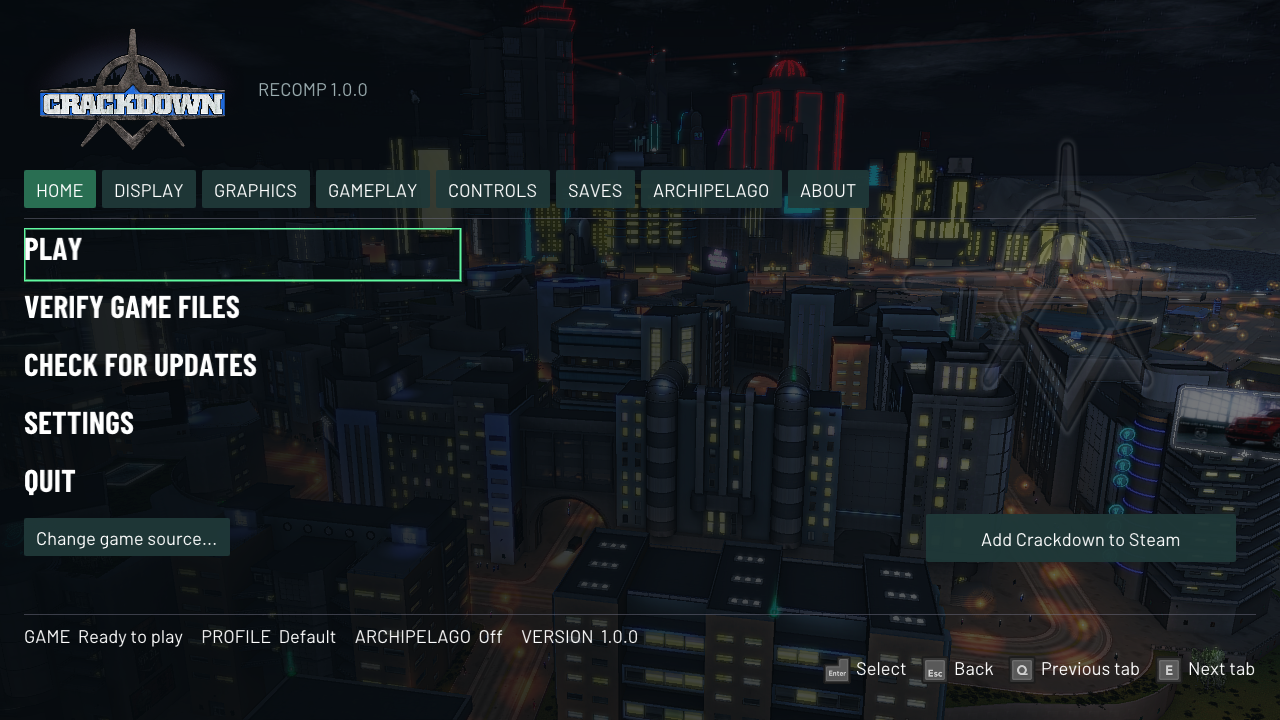
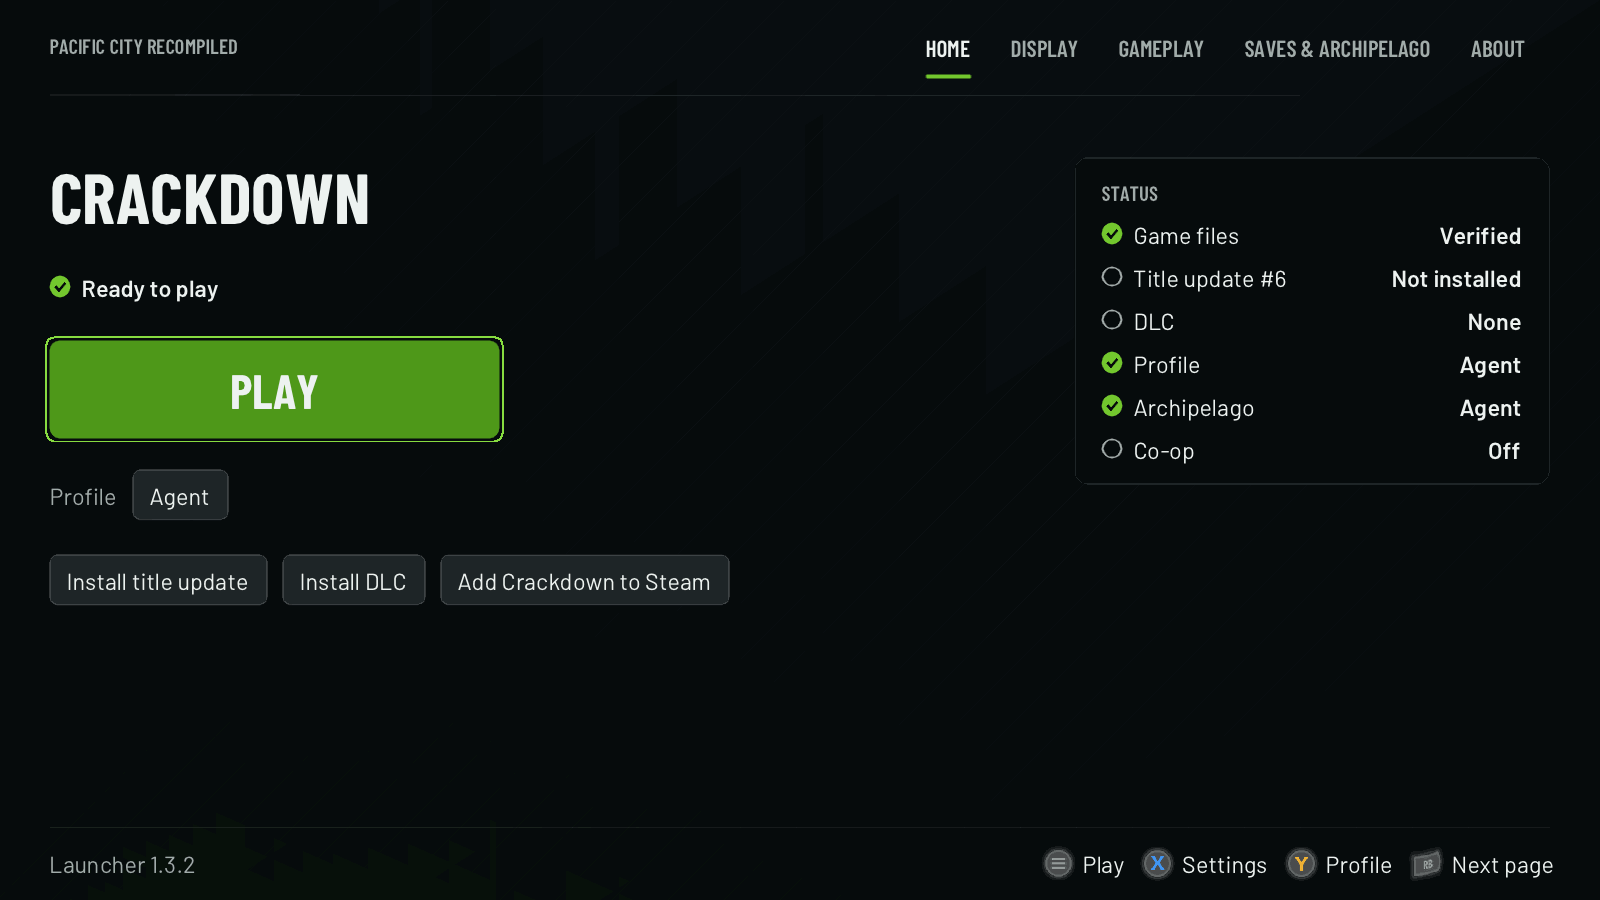
README: rewrite around the controller-friendly launcher (1.3.2)
Install via Quiver or the release ZIPs, first run, controller shortcuts,
settings pages, Archipelago (archipelago.gg port or custom address) and
troubleshooting. Absolute image/link URLs so Quiver's README view renders
them. New launcher screenshots rendered offscreen from launcher 1.3.2.

Claude-Session: https://claude.ai/code/session_01EfPM4SCpr4R1jnUmvdL5Yy

diff --git a/README.md b/README.md
@@ -4,62 +4,127 @@
 
 **Crackdown (Xbox 360, 2007), recompiled to run natively on Windows PC.**
 
-60 fps · up to 4K · ultrawide · mouse and keyboard · co-op · Archipelago randomizer
+60 fps · up to 4K · ultrawide · controller-friendly launcher · mouse and keyboard · co-op · Archipelago
 
-[![Latest release](https://img.shields.io/github/v/release/pacific-city-recompiled/crackdown-recomp?label=release&color=2ea44f)](https://github.com/pacific-city-recompiled/crackdown-recomp/releases)
-[![License](https://img.shields.io/badge/license-BSD--3--Clause-lightgrey)](LICENSE)
-[![Platform](https://img.shields.io/badge/platform-Windows%2010%20%7C%2011-0078d4)](SETUP.md#what-you-need)
+[![Latest release](https://img.shields.io/github/v/release/pacific-city-recompiled/crackdown-recomp?label=release&color=2ea44f)](https://github.com/pacific-city-recompiled/crackdown-recomp/releases/latest)
+[![License](https://img.shields.io/badge/license-BSD--3--Clause-lightgrey)](https://github.com/pacific-city-recompiled/crackdown-recomp/blob/main/LICENSE)
+[![Platform](https://img.shields.io/badge/platform-Windows%2010%20%7C%2011-0078d4)](https://github.com/pacific-city-recompiled/crackdown-recomp/blob/main/SETUP.md#what-you-need)
 
-**[Download 1.3.1](https://github.com/pacific-city-recompiled/crackdown-recomp/releases)** ·
-**[Setup guide](SETUP.md)** ·
-**[Report a problem](SETUP.md#reporting-a-problem)**
+**[Download 1.3.2](https://github.com/pacific-city-recompiled/crackdown-recomp/releases/latest)** ·
+**[Setup guide](https://github.com/pacific-city-recompiled/crackdown-recomp/blob/main/SETUP.md)** ·
+**[Report a problem](https://github.com/pacific-city-recompiled/crackdown-recomp/issues)** ·
+**[Crackdown 2](https://github.com/pacific-city-recompiled/crackdown-2-recomp)**
 
-<br>
-
-<img src="docs/images/hero.jpg" alt="An agent drops from the rooftops toward the Pacific City skyline" width="100%">
+<img src="https://raw.githubusercontent.com/pacific-city-recompiled/crackdown-recomp/main/docs/images/hero.jpg" alt="An agent drops from the rooftops toward the Pacific City skyline" width="100%">
 
 </div>
 
+Crackdown Recomp is an unofficial native PC port of Crackdown. It is not an emulator: the game's
+Xbox 360 code is translated ahead of time (static recompilation) into a Windows program, then fixed
+and extended for modern PCs. A launcher installs the game from **your own** disc, checks every file,
+keeps your settings and saves, and works fully with a controller.
+
 > [!IMPORTANT]
-> **Crackdown 2 is in the launcher (beta).** Since 1.1 one install plays both games: pick
-> CRACKDOWN 2 in the header, download its runtime from
-> [crackdown-2-recomp](https://github.com/pacific-city-recompiled/crackdown-2-recomp), then install your disc, its
-> title update and any DLC. See [SETUP.md](SETUP.md#crackdown-2).
+> No game files are included. You need your own dump of the **Crackdown World multi-language disc**
+> (ISO, XISO or an extracted folder).
 
-## About
+## Install
 
-Crackdown Recomp is an unofficial native PC port of Crackdown. It is not an emulator: the
-game's original Xbox 360 code is translated ahead of time (static recompilation) into a
-native Windows program, then fixed and extended for modern PCs. A launcher installs the game
-from **your own** disc dump, checks every file, keeps your settings and updates itself.
+### With Quiver Launcher
 
-The repository contains no game data. You need your own copy of Crackdown.
+Find **Crackdown** in [Quiver](https://quiverlauncher.com), press **Get**, then **Play**. Quiver
+downloads and updates the game; it opens the Crackdown launcher, which installs your disc on first run.
 
-## Features in 1.0
+### From the release ZIP
 
-| | |
+| Download | Use it if |
 |---|---|
-| **60 fps by default** | Smooth gameplay with the game's physics, driving, stairs and audio fixed to match the original 30 fps timing. 30 fps is one click away. |
-| **Fast** | The renderer's work is split across threads and repeated per-draw work is skipped. On an RTX 5080 at 1080p uncapped, the spawn point went from about 65 to 110 fps and camera pans from about 80 to 130+. |
-| **Graphics options** | Internal resolution up to 4K, FXAA and texture filtering, in the launcher's GRAPHICS tab or the new **PC Settings** page in the game's own menus. |
-| **Ultrawide** | Aspect ratios 16:9, 16:10, 21:9, 32:9 and 4:3. Wider ratios show more of Pacific City instead of stretching the picture. |
-| **Mouse and keyboard** | Full mouse look and rebindable keys, plus any Xbox-style controller. A camera turn speed slider (0.25x to 4x) works for both. |
-| **Co-op** | Two-player campaign over System Link between two PCs, set up from the launcher (Host or Join). |
-| **Archipelago randomizer** | Join an [Archipelago](https://archipelago.gg) multiworld: orbs, supply points, weapon deposits and bosses hold items for every player in the room. |
-| **10 languages** | Pick the game's language in the launcher (the disc may not include all of them). |
-| **Save profiles and portable mode** | Separate save profiles, or keep saves next to the game on a USB drive. |
-| **Quality of life** | F3 fps counter, F11 fullscreen/window toggle, skippable boot logos, one-click updates that keep your saves and settings. |
+| `Crackdown-Windows-1.3.2.zip` | You want just Crackdown. Run `CrackdownRecomp.exe`; the game sits in `cd1\` next to it. This is the package Quiver installs. |
+| `CrackdownRecomp-1.3.2.zip` | You want the combined launcher that plays **Crackdown and Crackdown 2** from one install and updates itself. Run `CrackdownLauncher.exe`. |
 
-## Screenshots
+Get either from the [latest release](https://github.com/pacific-city-recompiled/crackdown-recomp/releases/latest)
+and extract the **whole** ZIP into a folder you can write to (for example `Documents\Crackdown`, not
+`Program Files`). Already on 1.2.2 or newer? Use **Check for updates** in the launcher instead.
 
-<p align="center">
-  <img src="docs/images/gameplay.gif" alt="Rooftop drop over Pacific City at 60 fps" width="720">
-</p>
+## First run
+
+1. Open the launcher and choose **INSTALL GAME**. Pick your disc image (**DISC IMAGE (ISO)**) or an
+   already-extracted folder. The launcher extracts it and checks every file against the supported version.
+2. Optional: **Install title update** (Title Update #6) and **Install DLC** from the home page. The
+   Four-Play Pack works on the original game; the Free-For-All Pack (Keys to the City, Street Racing)
+   needs the title update. See [DLC and the title update](https://github.com/pacific-city-recompiled/crackdown-recomp/blob/main/SETUP.md#dlc-and-the-title-update).
+3. When the status reads **Ready to play**, press **PLAY**.
+
+<img src="https://raw.githubusercontent.com/pacific-city-recompiled/crackdown-recomp/main/docs/images/launcher-home.png" alt="The launcher's home page: PLAY, the save profile and a status card" width="100%">
+
+## Controller shortcuts
+
+The whole launcher works with a controller, so it is comfortable from the couch, in Big Picture or in Quiver.
+
+| Button | Does |
+|---|---|
+| **Start** | Play (from the home page) |
+| **X** | Open Settings |
+| **Y** | Pick the save profile |
+| **LB / RB** | Previous / next page |
+| **D-pad / left stick** | Move; **left / right** changes a setting in place |
+| **A / B** | Select / back |
+| **LT + RT** (or F11) | Switch the launcher between fullscreen and a window |
+
+**A** on a text box opens an on-screen keyboard (X deletes, Y types a space, Start finishes). Under
+**Gameplay → Advanced** you can open the launcher fullscreen and start the game right away after a
+3-second countdown (any button stops it). The launcher hides while you play and comes back when the game closes.
+
+In game, **F3** shows the fps counter and **F11** switches fullscreen. Mouse and keyboard: turn on
+**Mouse and keyboard** under Gameplay ([key map](https://github.com/pacific-city-recompiled/crackdown-recomp/blob/main/SETUP.md#mouse-and-keyboard)).
+
+## Settings
+
+Settings save on their own and apply the next time you press Play. Rare and debug options sit under each
+page's **Show advanced settings**.
+
+| Page | What's there |
+|---|---|
+| **Display** | Fullscreen, resolution (720p up to 4K), aspect ratio (16:9, 16:10, 21:9, 32:9, 4:3; wider shows more of the city, no stretching), frame rate (60 fps default, 30 fps for the original timing), anti-aliasing, texture filtering |
+| **Gameplay** | Language (10, if your disc has them), skip intro logos, camera turn speed (0.25x to 4x), mouse and keyboard, co-op over System Link |
+| **Saves & Archipelago** | Save profiles, the saves folder, portable mode (saves next to the game), Archipelago connection |
+| **About** | Versions, verify game files, logs folder, copy system info |
 
 <table>
   <tr>
-    <td width="50%"><img src="docs/images/driving.jpg" alt="An Agency car launching off the rocks next to Fun Land"></td>
-    <td width="50%"><img src="docs/images/street.jpg" alt="An agent on a downtown street with traffic"></td>
+    <td width="50%"><img src="https://raw.githubusercontent.com/pacific-city-recompiled/crackdown-recomp/main/docs/images/launcher-display.png" alt="The Display settings page"></td>
+    <td width="50%"><img src="https://raw.githubusercontent.com/pacific-city-recompiled/crackdown-recomp/main/docs/images/launcher-archipelago.png" alt="The Saves and Archipelago settings page"></td>
+  </tr>
+  <tr>
+    <td align="center"><sub>Display</sub></td>
+    <td align="center"><sub>Saves & Archipelago</sub></td>
+  </tr>
+</table>
+
+The game's own menus also have a **PC Settings** page for the graphics options.
+
+## Archipelago randomizer (experimental)
+
+Join an [Archipelago](https://archipelago.gg) multiworld: orbs, supply points, weapon deposits and bosses
+hold items for every player in the room, and other games send you Crackdown's skills and weapons.
+
+1. On **Saves & Archipelago**, create a save profile for the seed (one profile per seed). With a controller,
+   **Create a profile for this seed** opens the keyboard.
+2. Turn on **Connect when this profile plays**.
+3. **Server:** keep **archipelago.gg** and type just the **port** from your room page (the number after
+   `archipelago.gg:`, for example `38281`). For a self-hosted or other server, pick **Custom address** and
+   enter `host:port`.
+4. Enter your **slot name** and the room **password** (if any), then press **PLAY**. The game connects by
+   itself; there is no separate client window.
+
+Making a player file, generating and hosting a seed: [SETUP.md → Archipelago](https://github.com/pacific-city-recompiled/crackdown-recomp/blob/main/SETUP.md#archipelago-randomizer-experimental).
+
+## Screenshots
+
+<table>
+  <tr>
+    <td width="50%"><img src="https://raw.githubusercontent.com/pacific-city-recompiled/crackdown-recomp/main/docs/images/driving.jpg" alt="An Agency car launching off the rocks next to Fun Land"></td>
+    <td width="50%"><img src="https://raw.githubusercontent.com/pacific-city-recompiled/crackdown-recomp/main/docs/images/street.jpg" alt="An agent on a downtown street with traffic"></td>
   </tr>
   <tr>
     <td align="center"><sub>Driving at 60 fps</sub></td>
@@ -67,70 +132,33 @@ The repository contains no game data. You need your own copy of Crackdown.
   </tr>
 </table>
 
-**Ultrawide without stretching.** The same moment at 21:9: the extra width shows more of the city.
+<img src="https://raw.githubusercontent.com/pacific-city-recompiled/crackdown-recomp/main/docs/images/ultrawide.jpg" alt="The same rooftop drop at 21:9, showing more city on both sides" width="100%">
 
-<img src="docs/images/ultrawide.jpg" alt="The same rooftop drop at 21:9, showing more city on both sides" width="100%">
+<p align="center"><sub>21:9 without stretching: the extra width shows more of the city.</sub></p>
 
-<table>
-  <tr>
-    <td width="50%"><img src="docs/images/launcher-home.png" alt="The launcher's home screen"></td>
-    <td width="50%"><img src="docs/images/launcher-graphics.png" alt="The launcher's GRAPHICS tab"></td>
-  </tr>
-  <tr>
-    <td align="center"><sub>The launcher installs, verifies and updates the game</sub></td>
-    <td align="center"><sub>GRAPHICS tab: resolution, aspect ratio, FXAA, texture filtering</sub></td>
-  </tr>
-</table>
-
-<p align="center">
-  <img src="docs/images/pc-settings.jpg" alt="The in-game PC Settings page" width="70%"><br>
-  <sub>The new PC Settings page in the game's own menus</sub>
-</p>
-
-## Get started
-
-1. **Download** `CrackdownRecomp-1.3.1.zip` from the
-   [latest release](https://github.com/pacific-city-recompiled/crackdown-recomp/releases) and extract
-   the whole ZIP into a folder you can write to (for example `Documents\CrackdownRecomp`).
-2. **Run** `CrackdownLauncher.exe` and choose **Install game**. Select your Crackdown ISO
-   (or a folder of extracted files). The launcher extracts and verifies it.
-3. **Press Play.**
-
-The full guide, including Windows warnings, mouse and keyboard controls, co-op and the
-randomizer, is in **[SETUP.md](SETUP.md)**.
-
-### Requirements
+## Requirements
 
 | | |
 |---|---|
-| OS | Windows 10 or 11, 64-bit. Steam Deck and Linux players report it runs under Proton ([notes](SETUP.md#what-you-need)). |
+| OS | Windows 10 or 11, 64-bit. Steam Deck and Linux players report it runs under Proton ([notes](https://github.com/pacific-city-recompiled/crackdown-recomp/blob/main/SETUP.md#what-you-need)). |
 | CPU | x64 with AVX2 and FMA3 (most Intel since 2013, AMD since 2015) |
 | GPU | DirectX 12 |
 | Runtime | [Microsoft Visual C++ x64 Redistributable](https://aka.ms/vs/17/release/vc_redist.x64.exe) |
-| Game | Your own dump of the **Crackdown World multi-language disc** (ISO, XISO or extracted folder) |
+| Game | Your own dump of the Crackdown World multi-language disc |
 
-### Controls at a glance
+## Troubleshooting
 
-| Key | Action |
-|---|---|
-| F3 | Show or hide the fps counter |
-| F11 | Switch between fullscreen and a window |
-| W A S D, mouse | Move and look (turn on Mouse / keyboard mode in the launcher's CONTROLS tab) |
-
-Full key map: [SETUP.md → Mouse and keyboard](SETUP.md#mouse-and-keyboard).
-
-## Known issues
-
-- Windows may refuse to start it with **`0xc0e90002`** ("This app can't run on your PC").
-  That is Smart App Control blocking unsigned programs; see
-  [SETUP.md → Windows warnings](SETUP.md#windows-warnings-expected).
-
-## Roadmap
-
-- **1.2:** DLC support (the Four-Play Pack, and the Free-For-All Pack with Keys to the City
-  and Street Racing through Title Update #6), co-op at 60 fps, ultrawide and forced V-Sync fixes.
-- **1.3:** 120 and 144 fps, and the Archipelago randomizer on the title update.
-- Native Linux: requested, no plan or date yet. Proton works today.
+- **"Windows protected your PC" (SmartScreen):** the files aren't code-signed. Click **More info → Run anyway**.
+- **Microsoft Defender flags the launcher** (`Trojan:Win32/Bearfoos.A!ml`): a heuristic false positive on a new
+  unsigned program. Restore it from **Windows Security → Protection history**, or don't run it and tell us.
+- **"This app can't run on your PC" / `0xc0e90002`:** Windows Smart App Control blocks unsigned programs and has no
+  per-app exception. The only way past it is turning Smart App Control off.
+- **The launcher says a file doesn't match:** your disc is a different version. Only the World multi-language disc
+  is supported (`default.xex` SHA256 `7aaa7a89…77e5a`).
+- **The launcher finds no update** (1.2.1 to 1.3.0 checked older hosts): download the newest ZIP once and copy it
+  over your install. Your game files, saves and settings stay.
+- **Something else:** on **About**, use **Open logs folder** and **Copy system info**, and open an
+  [issue](https://github.com/pacific-city-recompiled/crackdown-recomp/issues) with the newest `crackdown_NNN.log`.
 
 ## For developers
 
@@ -138,18 +166,18 @@ Full key map: [SETUP.md → Mouse and keyboard](SETUP.md#mouse-and-keyboard).
 |---|---|
 | `crackdown/src` | Game hooks and runtime fixes on top of the [ReXGlue SDK](https://github.com/rexglue/rexglue-sdk) (submodule `sdk/`, pinned to a release) |
 | `patches/sdk` | SDK fixes, applied by `build-and-run.bat` / `tools/apply-sdk-patches.sh` |
-| `crackdown/launcher` | The launcher and installer |
-| `docs/` | Build playbook ([`docs/playbook.md`](docs/playbook.md)), reverse-engineering notes ([`docs/re-notes.md`](docs/re-notes.md)), the [60 fps audit](docs/60fps-audit.md) and design plans |
+| `docs/` | Build [playbook](https://github.com/pacific-city-recompiled/crackdown-recomp/blob/main/docs/playbook.md), [reverse-engineering notes](https://github.com/pacific-city-recompiled/crackdown-recomp/blob/main/docs/re-notes.md), the [60 fps audit](https://github.com/pacific-city-recompiled/crackdown-recomp/blob/main/docs/60fps-audit.md) and design plans |
 
-The recompiled C++ is generated locally from your own `default.xex`; neither it nor any game
-file is committed. Building from source is covered in the playbook.
+The launcher lives in its own repository,
+[pacific-city-recompiled-launcher](https://github.com/pacific-city-recompiled/pacific-city-recompiled-launcher).
+The recompiled C++ is generated locally from your own `default.xex`; neither it nor any game file is committed.
 
 ## Legal
 
-Crackdown Recomp is an unofficial fan project. It is not affiliated with or endorsed by
-Microsoft, Xbox Game Studios or Realtime Worlds. Crackdown and all related names and assets
-belong to their owners. No game data is distributed; you must own the game and supply your
-own disc dump.
+Crackdown Recomp is an unofficial fan project. It is not affiliated with or endorsed by Microsoft, Xbox Game
+Studios or Realtime Worlds. Crackdown and all related names and assets belong to their owners. No game data is
+distributed; you must own the game and supply your own disc dump.
 
-The source code is released under the BSD-3-Clause license, see [LICENSE](LICENSE).
-Third-party code keeps its own notices (`tools/launcher-NOTICES.txt`, `sdk/LICENSE`).
+The source code is released under the BSD-3-Clause license, see
+[LICENSE](https://github.com/pacific-city-recompiled/crackdown-recomp/blob/main/LICENSE). Third-party code keeps
+its own notices (`tools/launcher-NOTICES.txt`, `sdk/LICENSE`).

diff --git a/docs/handoffs/2026-11-01-readme-refresh.md b/docs/handoffs/2026-11-01-readme-refresh.md
@@ -1,0 +1,24 @@
+# Handoff 2026-11-01: README refresh for the controller launcher
+
+Both game READMEs (crackdown-recomp, crackdown-2-recomp) were rewritten around the 1.3.2 / 1.0.1 launcher:
+install via Quiver or the release ZIPs, first run, controller shortcuts, settings pages, Archipelago
+(archipelago.gg + port, or Custom address), troubleshooting (incl. the CD2 >720p crash fixed in 1.0.1).
+
+## Quiver
+Quiver shows the README on the app page (`apps/launcher/src/detail.tsx`: the site's copy, else GitHub's
+`/repos/<repo>/readme`). Rendering (`packages/ui/src/markdown.tsx`): always dark theme, rehype-sanitize default
+schema plus `align`/`width`/`height`, headings shifted down one level, lone images centred, GitHub alerts work.
+Relative URLs resolve against raw.githubusercontent.com only when fetched from GitHub, so every image and link
+in the READMEs is absolute (main branch). Images 404 until the PR merges.
+
+## Screenshots
+`docs/images/launcher-{home,display,archipelago}.png` are rendered on the Linux server from launcher main
+(eff4eaf, 1.3.2) with `--review-ui <dir> 1600 900 --pad-script` (SDL offscreen driver, assets/ copied next to the
+exe for fonts and button glyphs), using a stub install (fake one-entry manifest + verified-files stamp) so home
+shows "Ready to play" without real game art. A profile "Agent" with Archipelago on fills the AP page.
+CD2 hero/tutorial JPEGs come from earlier in-game captures (project files city3_160.png, quiver/cd2-screenshot.jpg).
+
+## Next
+- CD1 SETUP.md still uses old launcher tab names (GRAPHICS, SAVES, ARCHIPELAGO tabs); refresh it to the
+  Display / Gameplay / Saves & Archipelago / About pages.
+- Quiver catalog switch to GitHub (pending separately).
